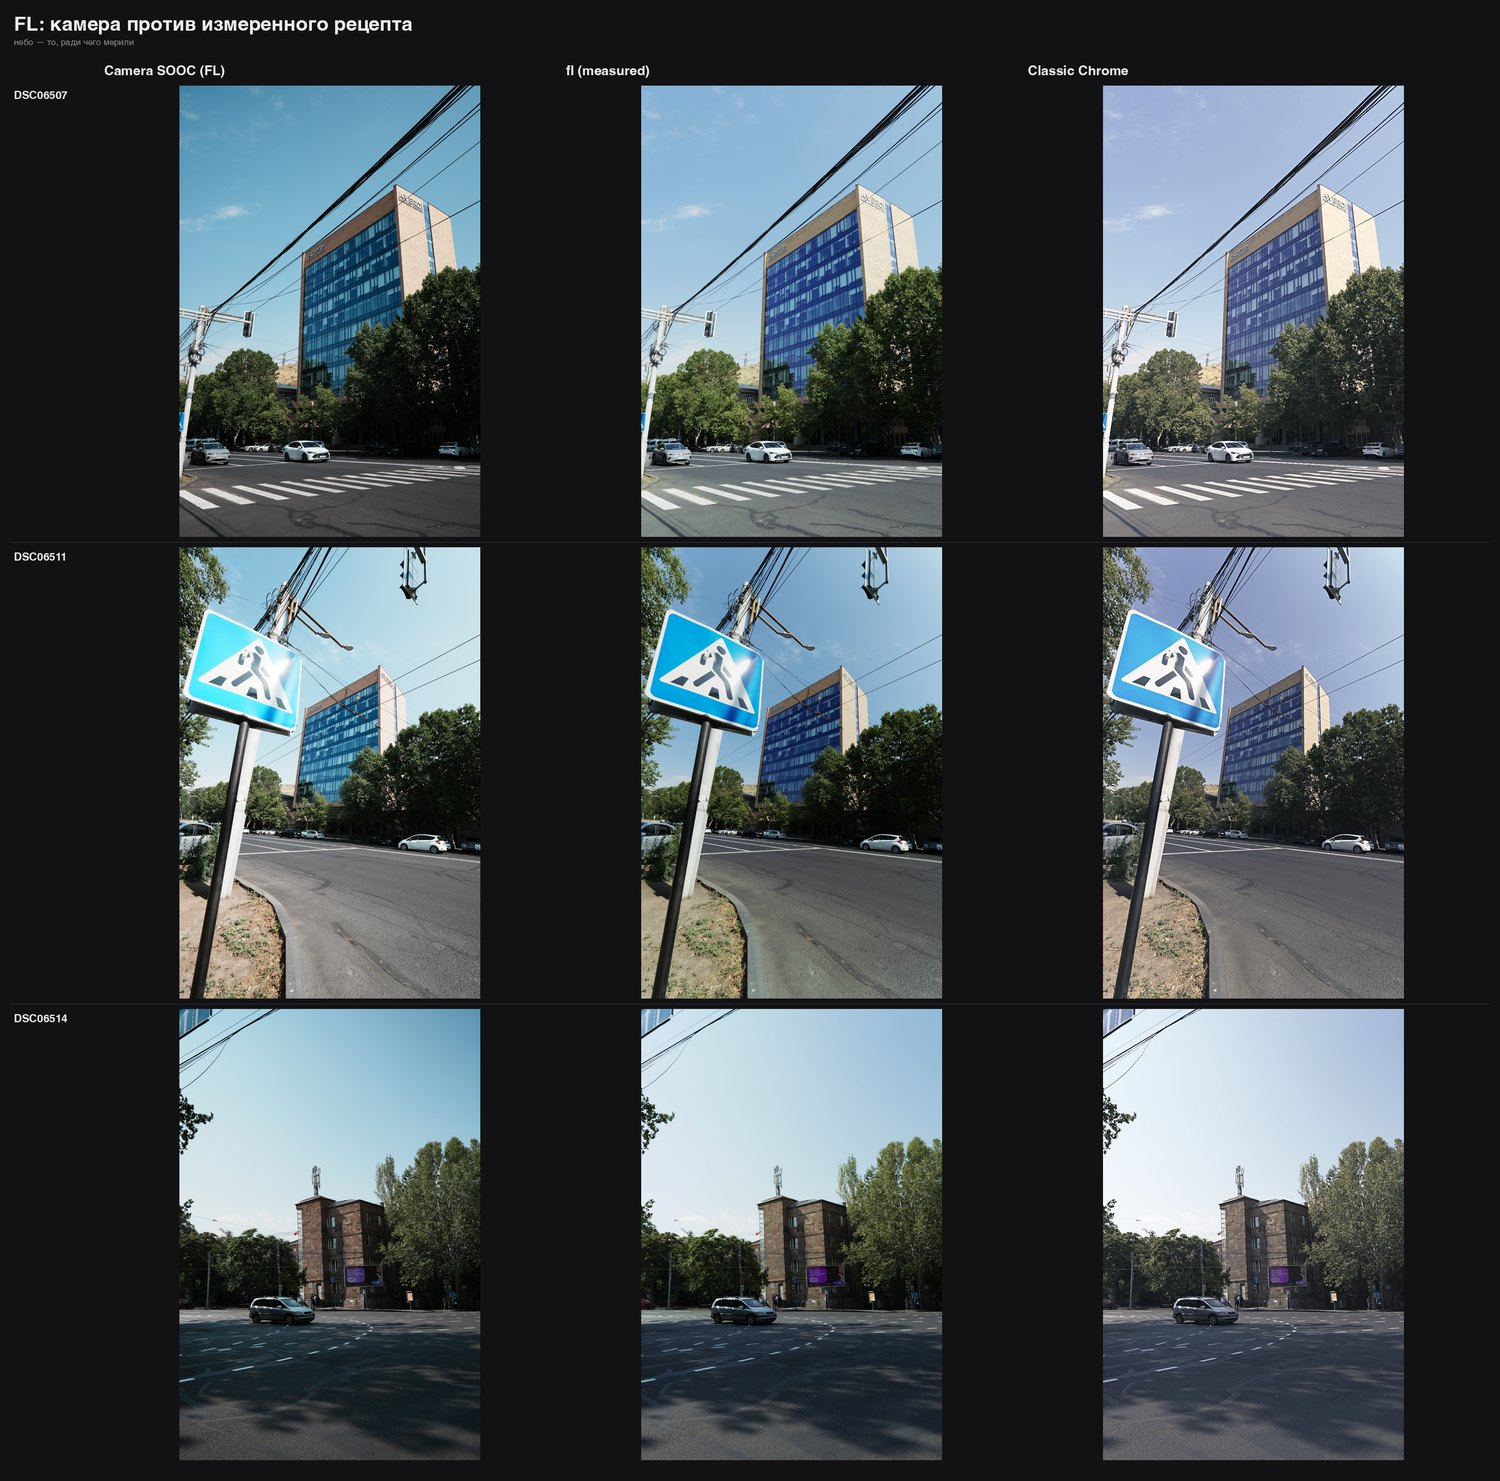
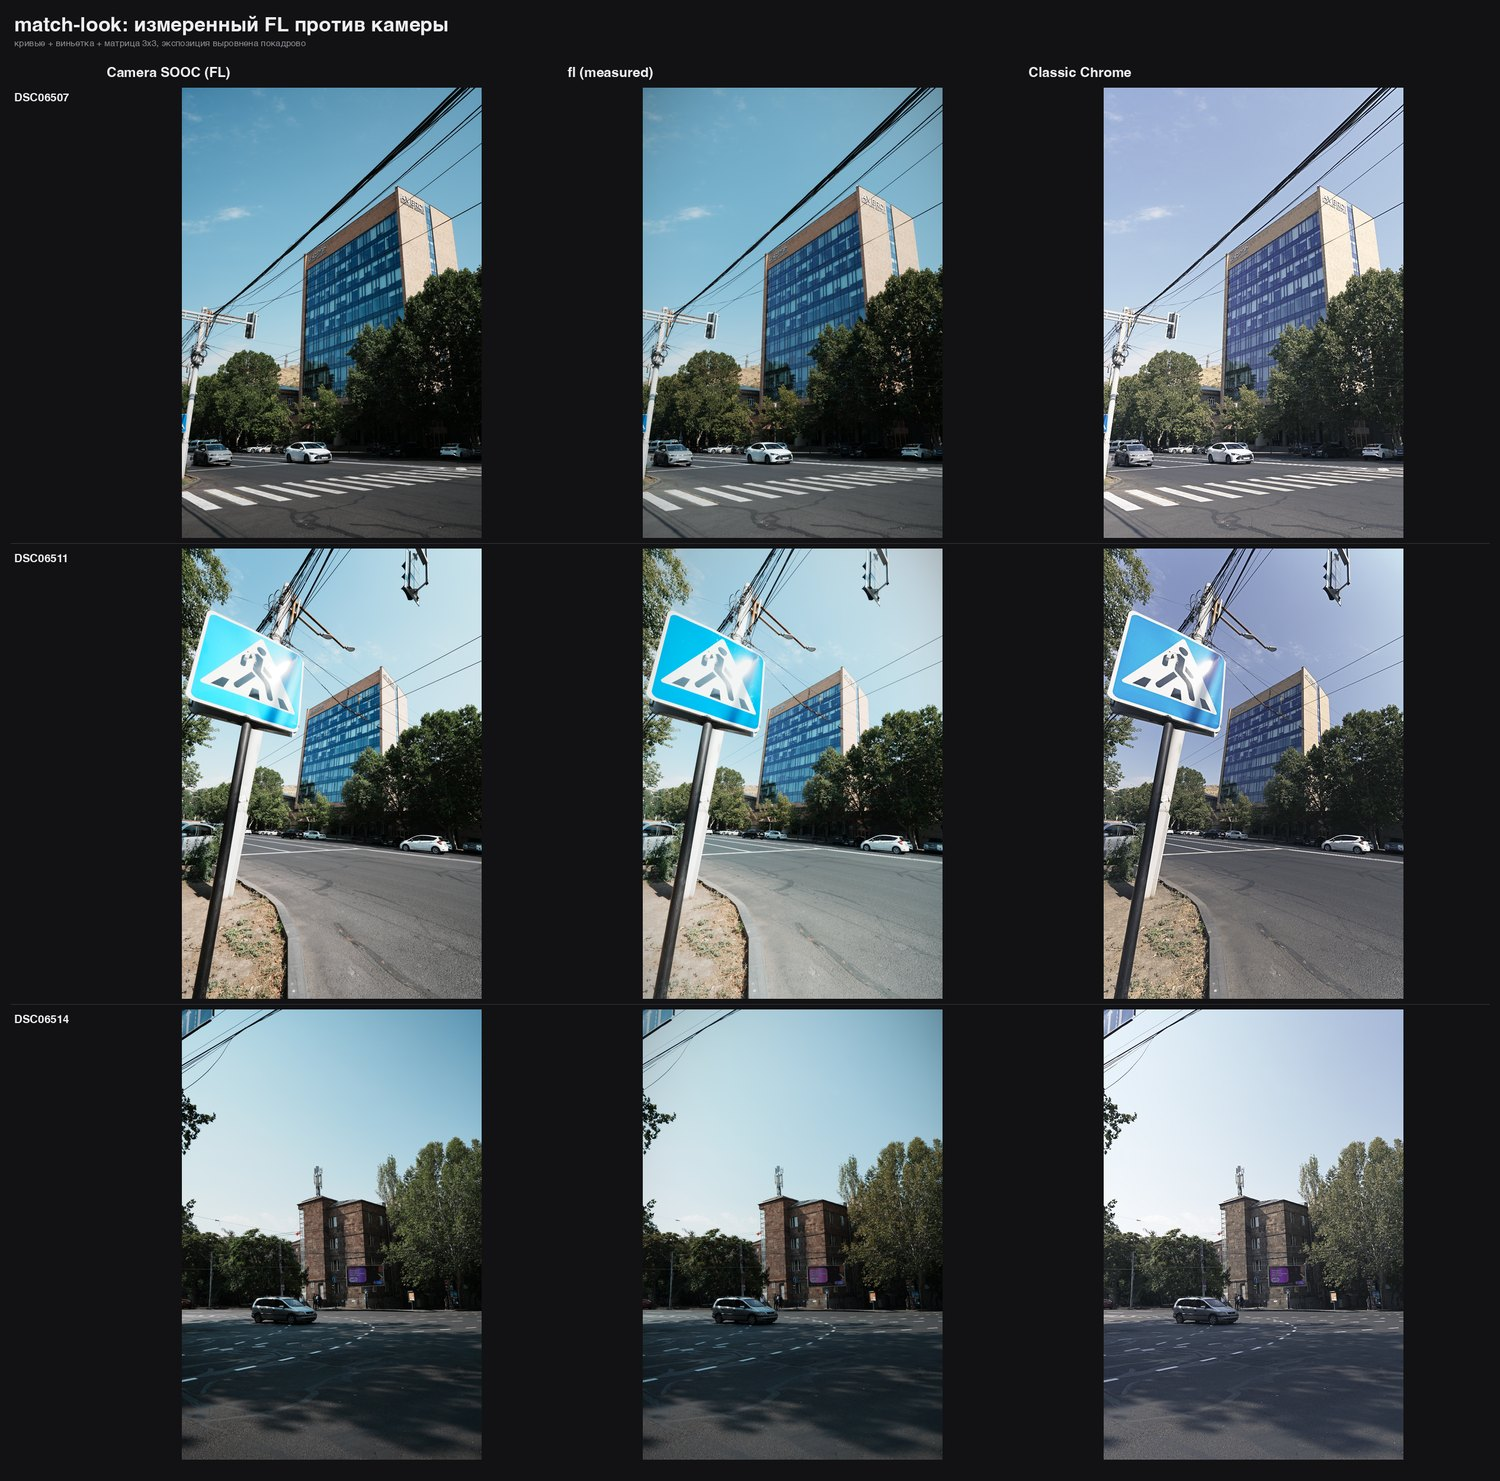
Refresh the match-look example: it predated the matrix
The README showed an fl recipe with an hsl block and no vignette or
matrix, which is a recipe the tool no longer produces — on this data the
matrix absorbs the hue-band residual and hsl gets dropped. The example
image was rendered before the matrix and before per-frame exposure
matching too.

Also makes the generated description list the terms that were actually
kept, instead of claiming per-channel curves regardless.

Claude-Session: https://claude.ai/code/session_01NfyBuKxgdhUiMSrFXUKmZ8

diff --git a/src/photopipe/cli.py b/src/photopipe/cli.py
@@ -266,9 +266,12 @@ def cmd_match_look(args):
     slug = args.name or look.lower().replace(" ", "-")
     data = matchlook.to_recipe(
         curves, hsl, name=args.title or f"{look} (measured)",
-        description=(f"Sony {look} Creative Look, measured from {len(pairs)} "
-                     f"RAW+HEIF pairs. Per-channel transfer curves reproduce the "
-                     f"camera's tone and colour; regenerate with `photo-pipe match-look`."),
+        description=(f"{look} camera look, measured from {len(pairs)} raw + "
+                     f"camera-JPEG pairs: per-channel transfer curves"
+                     + (", lens falloff" if vig else "")
+                     + (", a 3x3 channel mix" if mat else "")
+                     + (", per-hue residual" if hsl else "")
+                     + ". Regenerate with `photo-pipe match-look`."),
         order=args.order, exposure=exposure, vignette=vig, matrix=mat)
 
     dest = args.out_recipe or os.path.join(recipes_mod.default_recipe_dir(), f"{slug}.yaml")

diff --git a/README.md b/README.md
@@ -224,9 +224,10 @@ photo-pipe match-look ~/Images/2026-08-15 --name fl
 
 ![measured FL](docs/examples/fl-measured.jpg)
 
-*Left: Sony's FL Creative Look. Middle: the measured `fl` recipe. Right:
-Classic Chrome, for contrast — note how it pushes the sky toward lavender
-while `fl` keeps the camera's blue.*
+*Left: Sony's FL Creative Look. Middle: the measured `fl` recipe, rendered
+with `--match-exposure`. Right: Classic Chrome, for contrast — note how it
+pushes the sky toward lavender while `fl` keeps the camera's blue. Sky hue
+lands within 1–2° of the camera and saturation within about 0.05.*
 
 ### How it works
 
@@ -252,15 +253,21 @@ The output is an ordinary recipe you can open and edit:
 
 ```yaml
 name: FL (measured)
-exposure: -0.852
+exposure: -0.852               # vs the pipeline's auto-exposure
 rgb_curves:
   red:   [[0.0, 0.0011], [0.04, 0.0114], ...]
   green: [[0.0, 0.0040], [0.04, 0.0143], ...]
   blue:  [[0.0, 0.0019], [0.04, 0.0113], ...]
-hsl:
-  yellow: {sat: -27, lum: -10}
-  green:  {sat: -12}
+vignette: {a1: 0.0887, a2: -0.3253}
+matrix:
+  - [ 1.1971, -0.3279,  0.1308]
+  - [ 0.1249,  0.5351,  0.3400]
+  - [-0.0218,  0.1126,  0.9092]
 ```
+
+No `hsl:` block here — on this measurement the matrix absorbed the hue-band
+residual and adding HSL on top made the error worse, so it was dropped. That
+is the tool checking each term rather than emitting all of them.
 
 ### Two things that decide whether the result is any good
 
